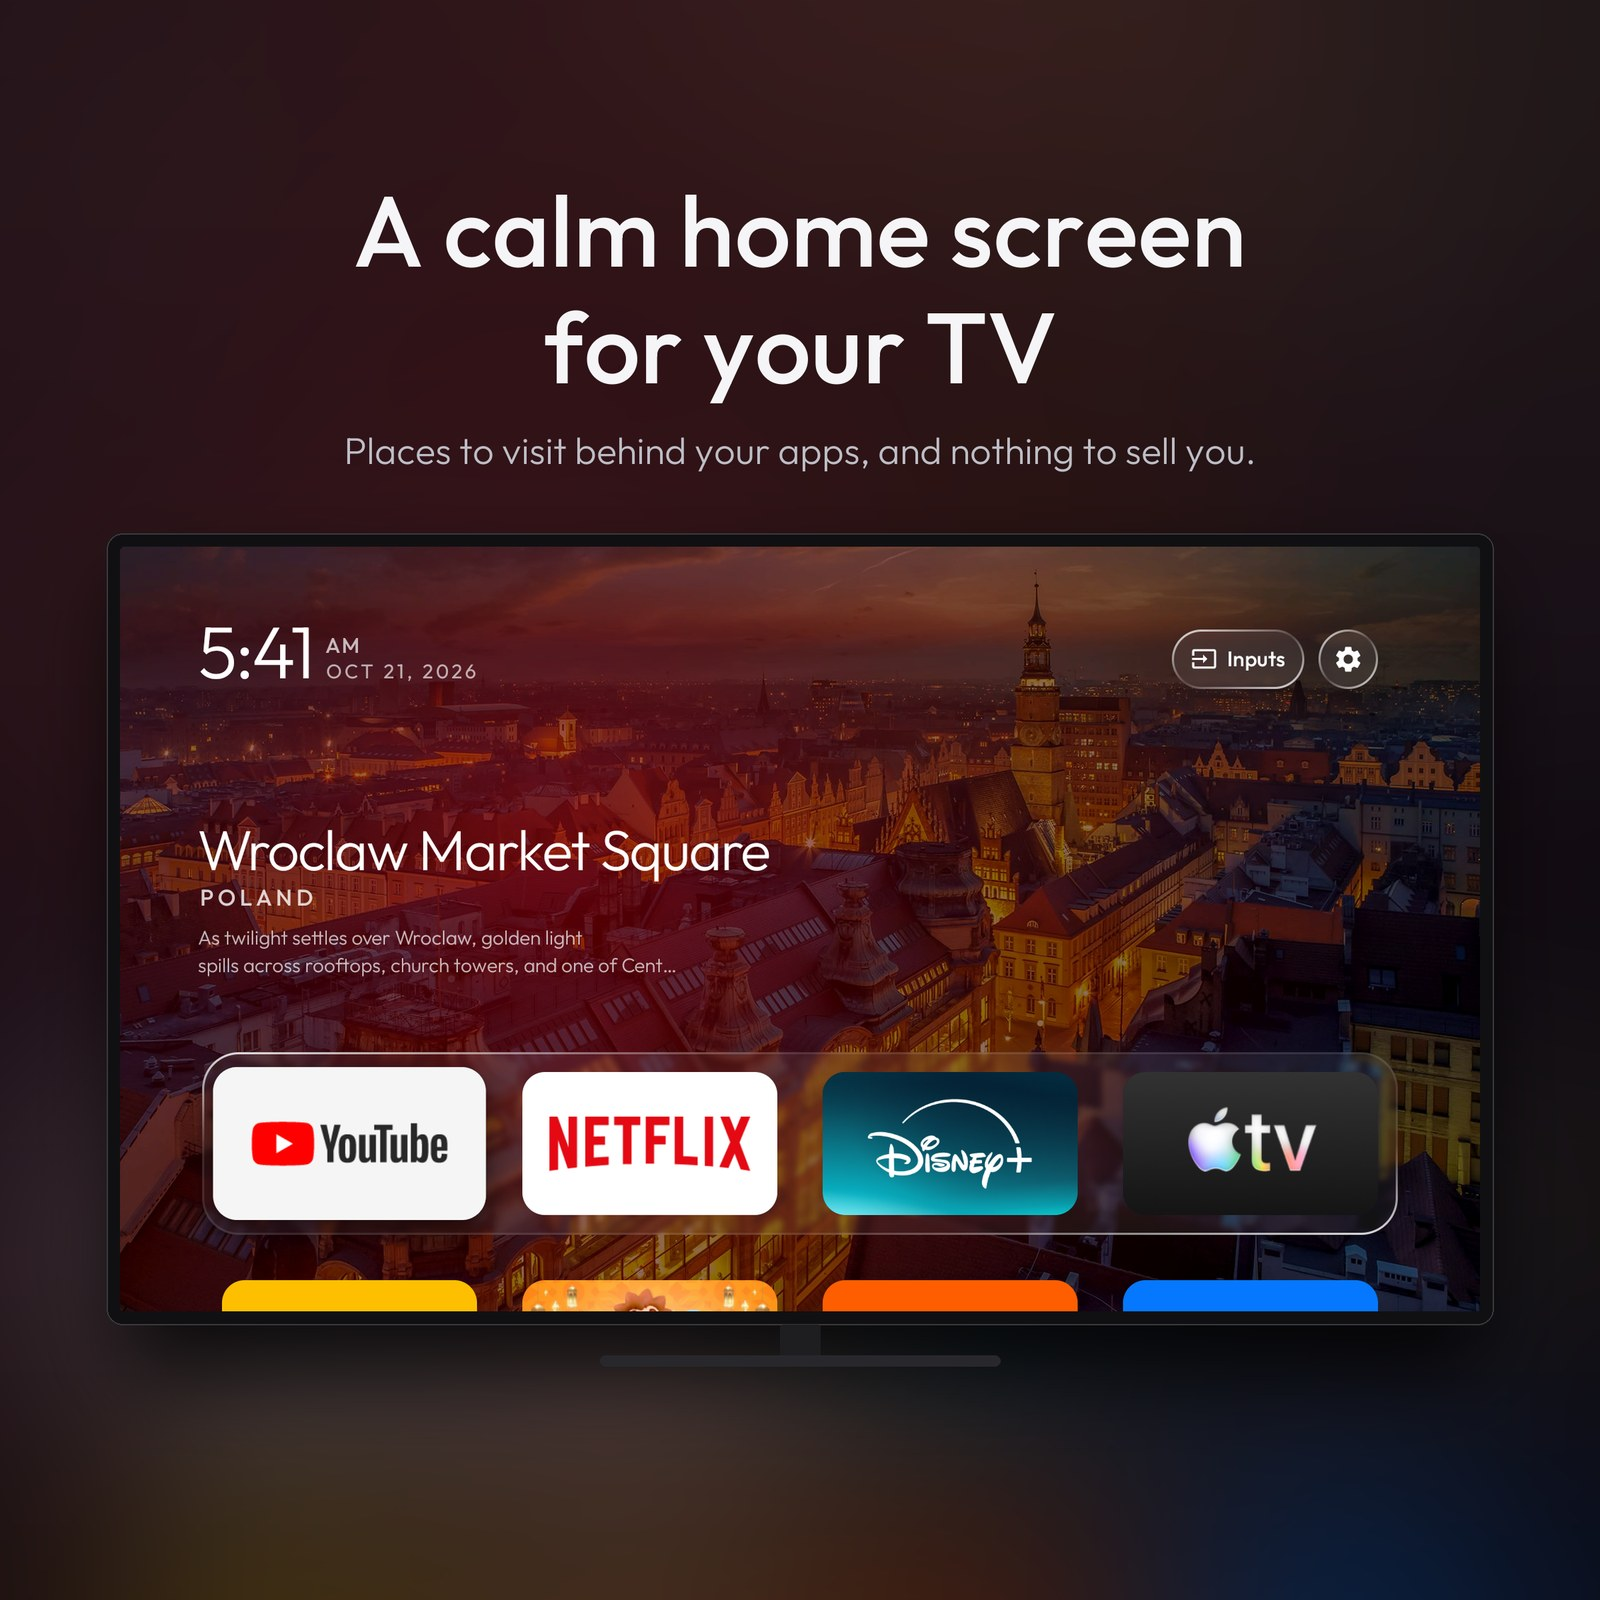
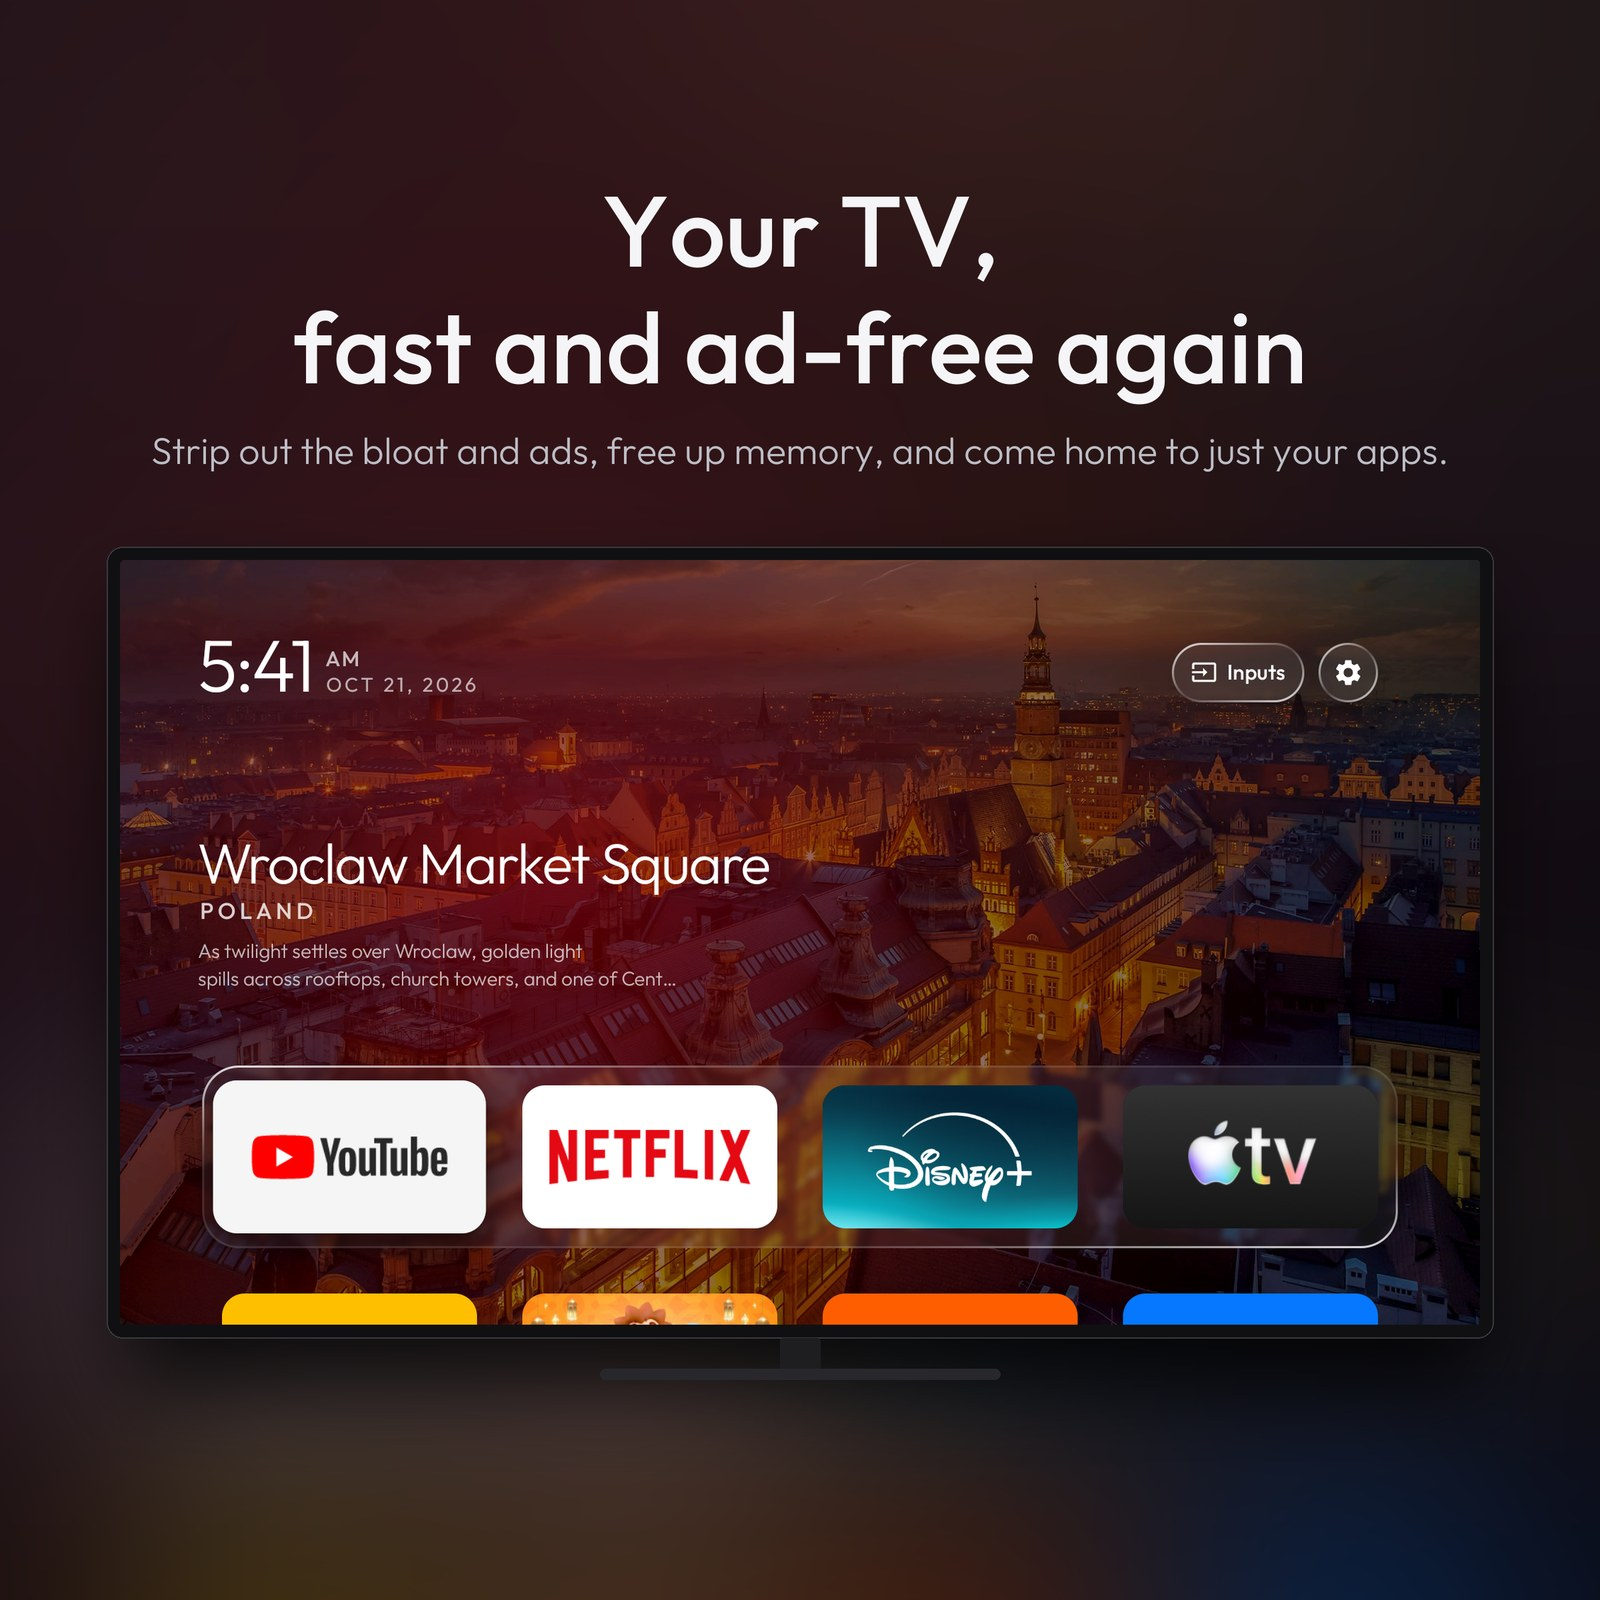
Lead with speed and no ads, in the README and its picture

Changed region(s): [[0.0625, 0.125, 0.9375, 0.875], [0.8438, 0.2812, 0.9062, 0.3125]]

diff --git a/README.md b/README.md
@@ -1,13 +1,14 @@
 # Clean TV
 
-**A calm home screen for Android TV and Google TV, with places to visit behind it.**
+**Make your Android TV or Google TV fast and ad-free again: strip out the bloat and ads, free up memory,
+and come home to just your apps, with a new place to visit behind them every week.**
 
 Based on [Clean Your TV](https://github.com/Gathin23/cleanyourtv) by Gathin. Not affiliated with it.
 Clean TV keeps everything Clean Your TV does — debloat any Android TV over Wi-Fi, no root, fully reversible,
 and swap the ad-filled home screen for a light Apple TV-style launcher — and adds a home screen that shows a
 new set of places every week.
 
-![Clean TV home screen, with a place to visit behind the apps](docs/screenshots/home-places.jpg)
+![Clean TV: your TV, fast and ad-free again](docs/screenshots/home-places.jpg)
 
 ## What Clean TV adds
 
